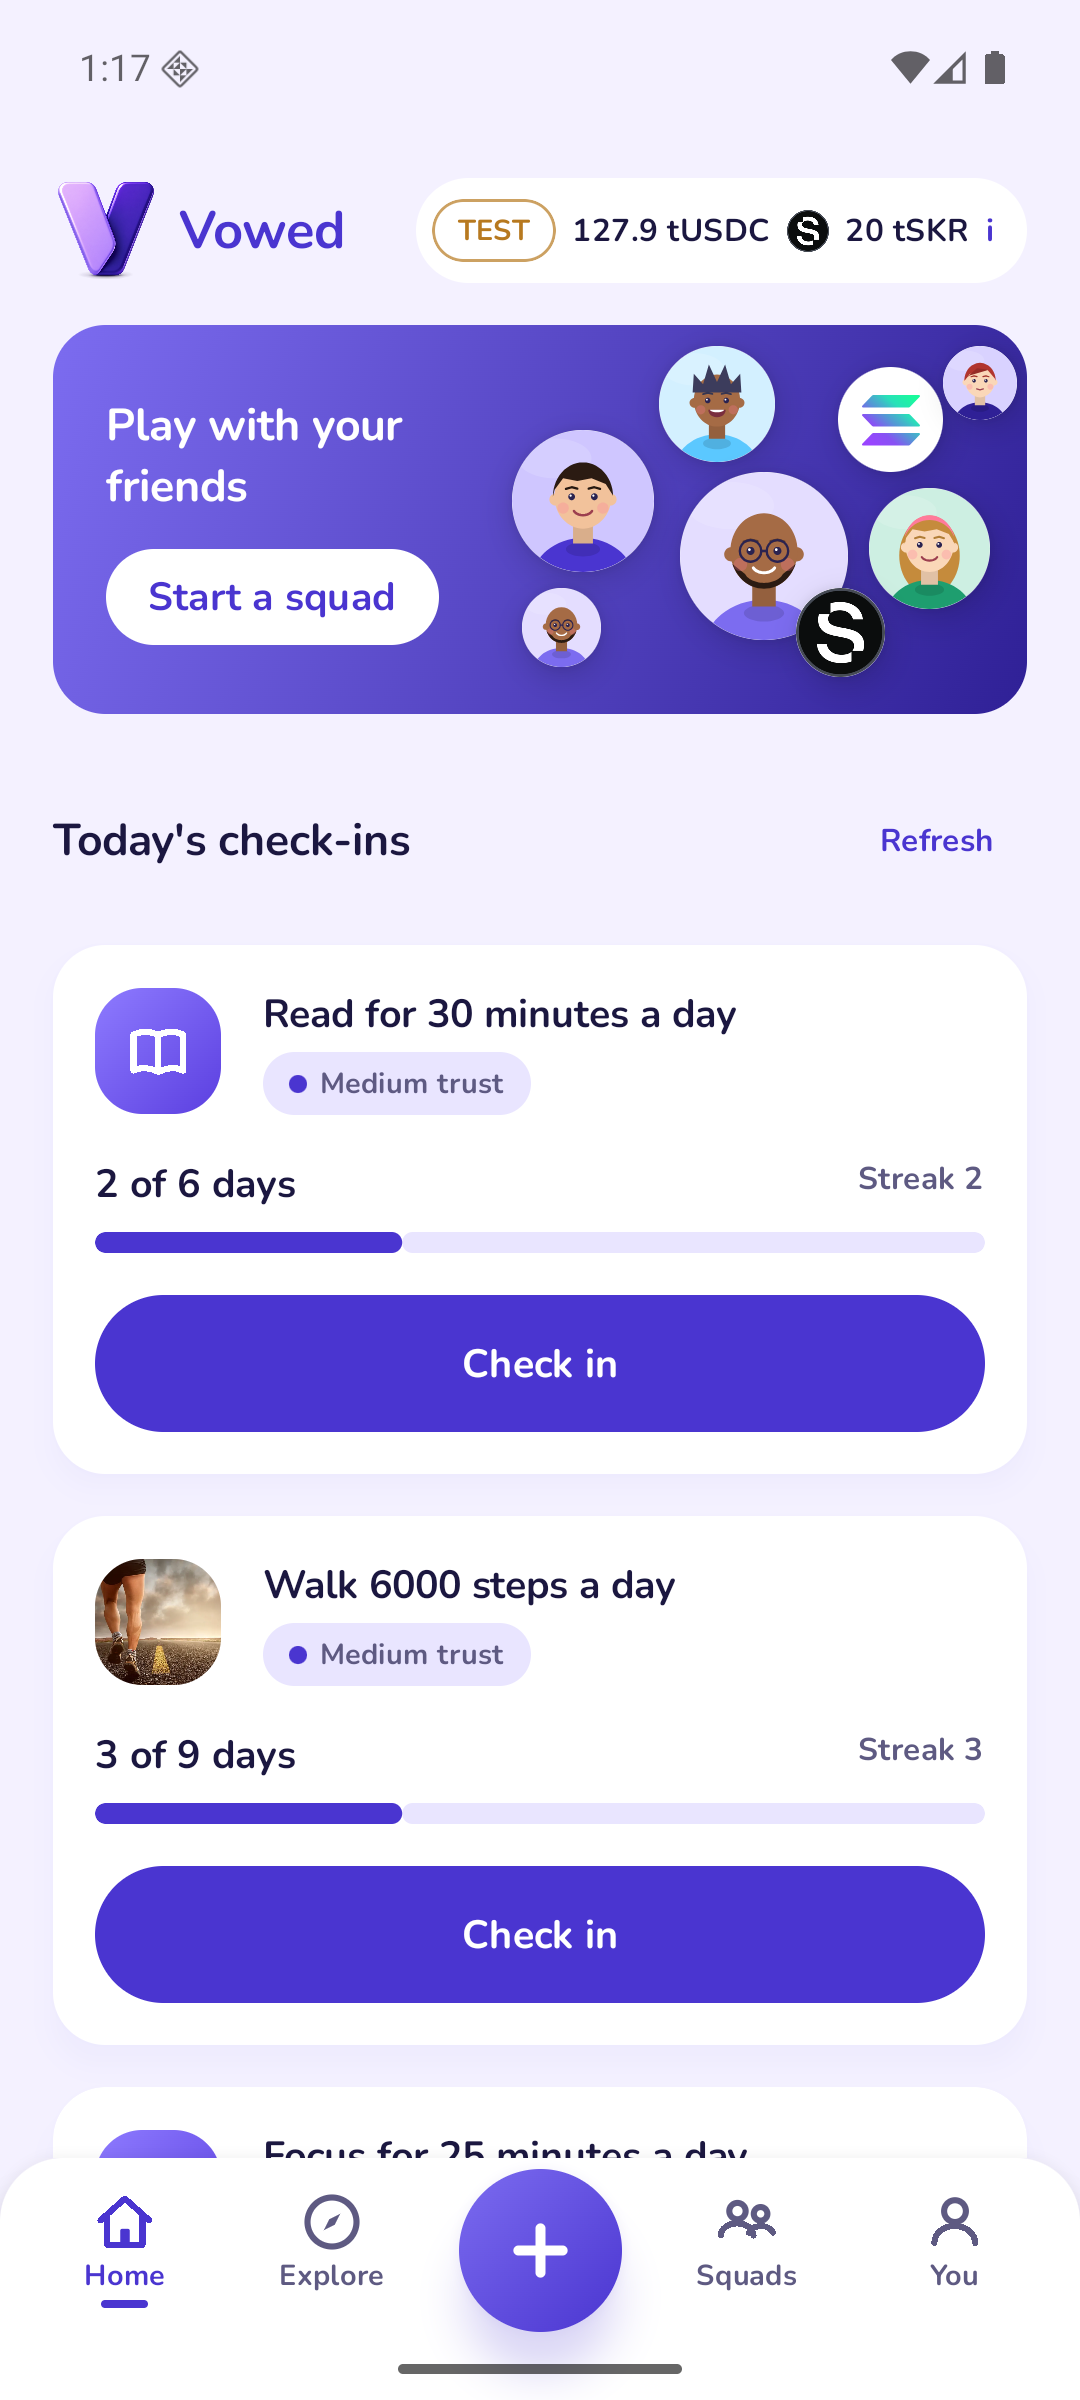
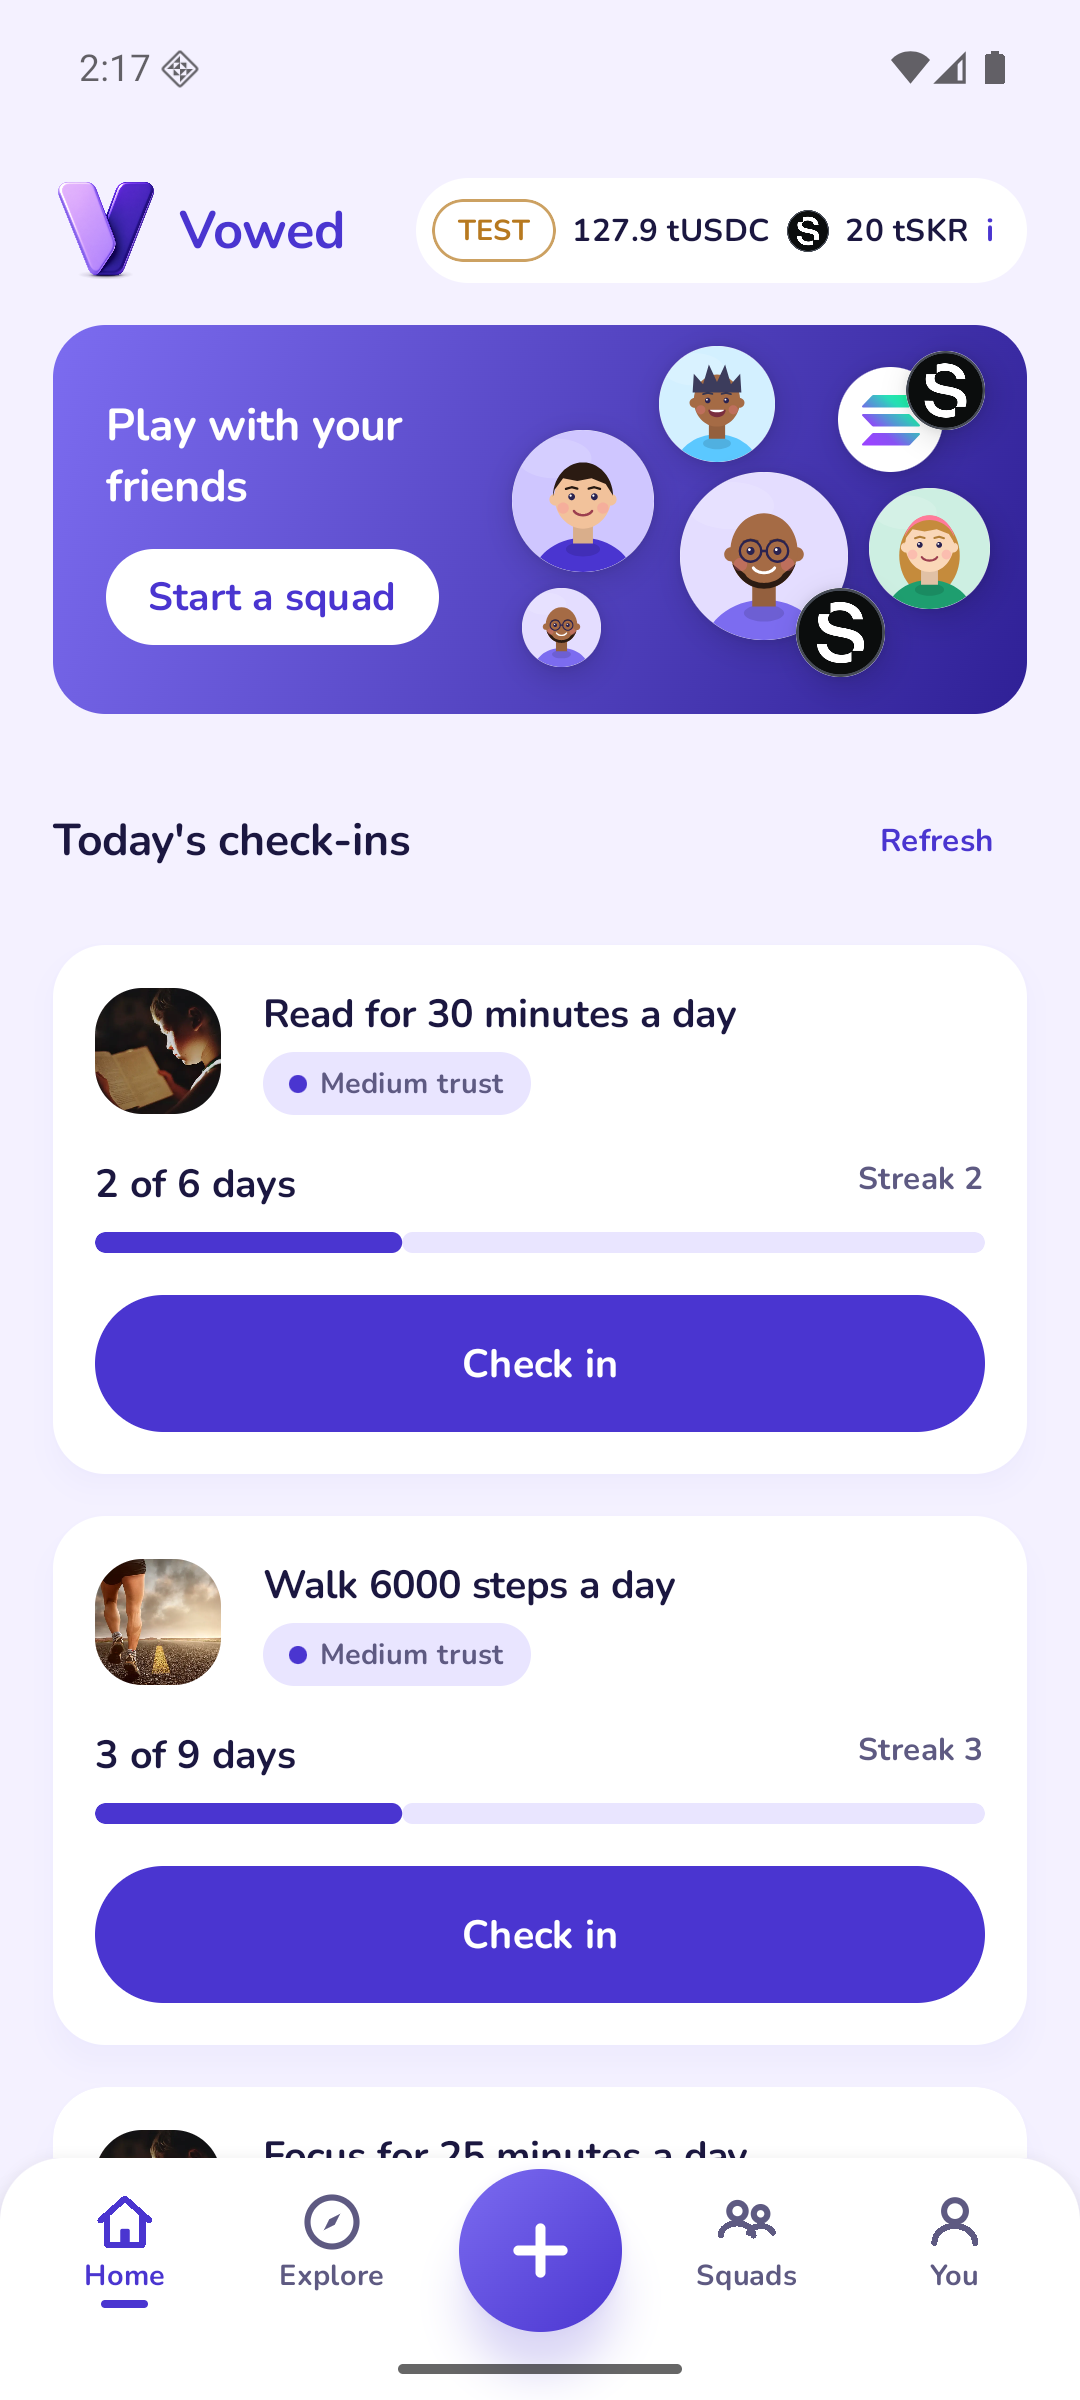
Category photos: study photo added (all 8 present); home and categories screenshots; rewards diagnosis notes, progress, photo credits

Changed region(s): [[0.0917, 0.4062, 0.2139, 0.4688], [0.825, 0.125, 0.9472, 0.1875], [0.0917, 0.875, 0.2139, 0.9062]]

diff --git a/android/app/src/main/java/app/vowed/ui/HomeScreen.kt b/android/app/src/main/java/app/vowed/ui/HomeScreen.kt
@@ -137,7 +137,7 @@ private fun HeroBanner(onSquads: () -> Unit) {
             bubble(0.70f, 62f, 46) { Avatar("hero-d-1122334455", 46.dp) }
             bubble(0.56f, 100f, 34) { app.vowed.ui.components.SkrIcon(34.dp) }
             bubble(0.04f, 100f, 30) { Avatar("hero-e-6677889900", 30.dp) }
-            bubble(0.82f, 6f, 30) { app.vowed.ui.components.SkrIcon(30.dp) }
+            bubble(0.77f, 10f, 30) { app.vowed.ui.components.SkrIcon(30.dp) }
         }
     }
 }

diff --git a/docs/photo-credits.md b/docs/photo-credits.md
@@ -1,10 +1,10 @@
 # Photo credits
 
-The category photos in the app come from files supplied by the project owner in `design/photos/`. `scripts/gen-photos.py` compresses them into `android/app/src/main/res/drawable-nodpi/photo_<category>.webp` (about 800 px wide, WebP quality 72, 209 KB for all seven; the APK grew by about 0.65 MB in this change including the SKR icon and other assets). The owner is filling in the source pages and licenses: **every row marked TODO must be completed before submission.**
+The category photos in the app come from files supplied by the project owner in `design/photos/`. `scripts/gen-photos.py` compresses them into `android/app/src/main/res/drawable-nodpi/photo_<category>.webp` (about 800 px wide, WebP quality 72, 209 KB for all eight; the APK grew by about 0.65 MB in this change including the SKR icon and other assets). The owner is filling in the source pages and licenses: **every row marked TODO must be completed before submission.**
 
 | category (app key) | file supplied | used for | source page | author | license |
 |---|---|---|---|---|---|
-| Study (`study`) | **not supplied yet** (the gradient tile with the book icon is used) | Categories tile, Explore and Home thumbnails, challenge header | TODO | TODO | TODO |
+| Study (`study`) | `design/photos/study.jpg` | Categories tile, Explore and Home thumbnails, challenge header | TODO | TODO | TODO |
 | Fitness (`fitness`) | `design/photos/fitness.png` | same | TODO | TODO | TODO |
 | Steps (`steps`) | `design/photos/steps.png` | same | TODO | TODO | TODO |
 | Sleep (`sleep`) | `design/photos/sleep.png` | same | TODO | TODO | TODO |
@@ -14,6 +14,7 @@ The category photos in the app come from files supplied by the project owner in 
 | Custom (`custom`) | `design/photos/custom.jpg` | same | TODO | TODO | TODO |
 
 Notes
-* The file names differ slightly from the ones first agreed (`fitness.png`, `steps.png`, `sleep.png` are PNG; `screen time.jpg` has a space); the script accepts all of them. When `study.jpg` is added, run `python scripts/gen-photos.py` and rebuild: the Study tile switches from the gradient to the photo by itself.
+* All eight category photos are present (checked 2026-10-08). A category without a photo file falls back to the gradient tile with its icon.
+* The file names differ slightly from the ones first agreed (`fitness.png`, `steps.png`, `sleep.png` are PNG; `screen time.jpg` has a space); the script accepts all of them. After changing a photo, run `python scripts/gen-photos.py` and rebuild.
 * The originals are not bundled in the APK, only the compressed WebP copies. If a license requires attribution inside the app, say so and an "Image credits" line can be added to You.
 * The SKR token icon (`design/brand/skr-logo.png`) and the owner's logo are not photos; see `docs/verified-facts.md`.

diff --git a/docs/progress.md b/docs/progress.md
@@ -261,3 +261,10 @@ Done in four commits (logo and theme; splash, onboarding and connect; home, crea
 - **Home banner:** the right side is a loose cluster of round shapes of different sizes that overlap slightly with soft shadows: mostly illustrated avatars, exactly one Solana logo circle and exactly one SKR logo circle.
 - **Photos:** Categories tiles are photos with a dark-to-clear scrim and white text (gradient tile when there is no photo: **Study has no photo yet**); the same photo is the thumbnail on Explore and Home cards for that category and the header of the challenge detail. WebP, 800 px wide, 209 KB in total; the debug APK grew by about 0.65 MB (107.05 MB to 107.70 MB). Sources and licenses: `docs/photo-credits.md` (the owner fills them in).
 - Behavior, honesty labels and tests unchanged; tests and the debug build pass.
+
+## UI round 3 (2026-10-08): Rewards diagnosis and redesign, banner, study photo
+- **Diagnosis (hosted backend, read-only probe `backend/scripts/rewards-probe.ts`):** `/v1/health` ok, `/v1/rewards` answers 200 with `enabled: true`, the faucet is enabled. The server now also reports the PUBLIC rewards wallet address: it is `7rgAagae2f4vepEFBcsSjwUEzEmx6ddMTUKYFQDFWgQ9`, matching the one funded (0.02 SOL, 91 tSKR in its vault, checked on devnet). So the server side is fine. App-side cause: the sign-in token lasts one hour and is kept in memory only; when it had expired (401) or the app had restarted, the screen showed a bare "Try again" that could never succeed. Fixed: the app now says the sign-in has expired and offers "Sign in" (wallet), and every other failure has a plain message. (Not reproduced on the user's phone; found by reading the code and the server's answers.)
+- **Backend:** `GET /v1/leaderboard?scope=week|all` (rank, wallet for the avatar, short name, streak, reward for the top places, SAMPLE flag, my own rank), `POST /v1/profile/leaderboard {hidden}` (hide me; still ranked and paid), `rewardsWallet` in `/v1/rewards`, live weekly standings now count to now instead of to the end of the week, SAMPLE rows (config `LEADERBOARD_SAMPLES`, default on, never paid). Tests in `backend/test/leaderboard.test.ts`; 278 tests pass on Windows.
+- **App:** new Rewards screen, "Hide me from the leaderboard" switch and a collapsed Labs section (open proof plug-ins sample) in You, SIMULATED yield as a small collapsed card at the bottom of Rewards.
+- **Home banner:** 5 avatars, exactly two SKR logos, exactly one Solana logo.
+- **Photos:** `study.jpg` added; all 8 category photos present.

diff --git a/docs/verified-facts.md b/docs/verified-facts.md
@@ -230,3 +230,6 @@ Counting method (ours, unit-tested on a synthetic skeleton, not yet on a real pe
 ## SKR token icon (2026-10-08, supplied by the owner)
 - `design/brand/skr-logo.png` (320x320, white S on a black circle with a gray ring) was **supplied by the project owner** and is used as the SKR icon in the token pill, the banner, balances and the SKR rewards and freeze screens (`res/drawable-nodpi/skr_logo.png`, 256 px).
 - **Comparison with an official-looking source:** Jupiter's token list gives the SKR icon as https://r2.solanamobiledappstore.com/skr/seeker.png (a Solana Mobile dApp store host; 500x500). It shows the same S glyph on a black circle, without the gray ring and with the S a little larger. No mismatch in the mark itself; the owner's file is that mark with a ring (a rendering variant). Nothing was switched. I could not confirm which of the two is the preferred brand file: the press kit linked from https://solanamobile.com/skr (Google Drive) cannot be fetched by a script.
+
+## Rewards diagnosis (2026-10-08)
+- Hosted `https://vowed-backend.onrender.com`: `/v1/rewards` enabled; rewards wallet public address reported by the server equals `7rgAagae2f4vepEFBcsSjwUEzEmx6ddMTUKYFQDFWgQ9`; devnet RPC (api.devnet.solana.com) shows 0.019995 SOL and 91 tSKR in its vault. Reward payouts need at least 0.005 SOL for fees.

diff --git a/docs/ui/README.md b/docs/ui/README.md
@@ -16,7 +16,7 @@ Screens were captured from the debug build on the Android emulator (API 36). **S
 | 14-explore.png, 15-categories.png | Explore (filters, DEMO MODE quick challenges, SAMPLE and DEMO labels) and the categories grid |
 | 17-challenge-detail.png, 18-challenge-detail-demo.png | challenge detail (hero, streak, check-in panel, players, SIMULATED yield label) |
 | 19-squads.png, 20-squad-detail.png | squads list, create and join; squad detail with invite, leaderboard with Nudge, challenges, activity |
-| 21-leaderboard-rewards.png | top streaks and weekly SKR rewards (TEST SKR), streak freeze, SIMULATED yield note |
+| 21-leaderboard-rewards.png, 21b-rewards-lower.png | Rewards screen (round 3): SKR balance, payout countdown, podium, my rank, two-tab leaderboard with SAMPLE rows, streak freeze, collapsed SIMULATED yield (made-up preview data) |
 | 22-you.png, 23-coach.png, 24-letters.png | You hub, coach, letters |
 | 30-launcher-icon-light.png | the app icon in the emulator launcher (the emulator launcher did not follow dark mode, so the dark case is covered by the generated sheet below) |
 | icon-shapes-light-wallpaper.png, icon-shapes-dark-wallpaper.png, icon-themed-monochrome.png | the adaptive icon under circle, squircle and rounded-square masks on light and dark backgrounds, and the themed (monochrome) layer |
